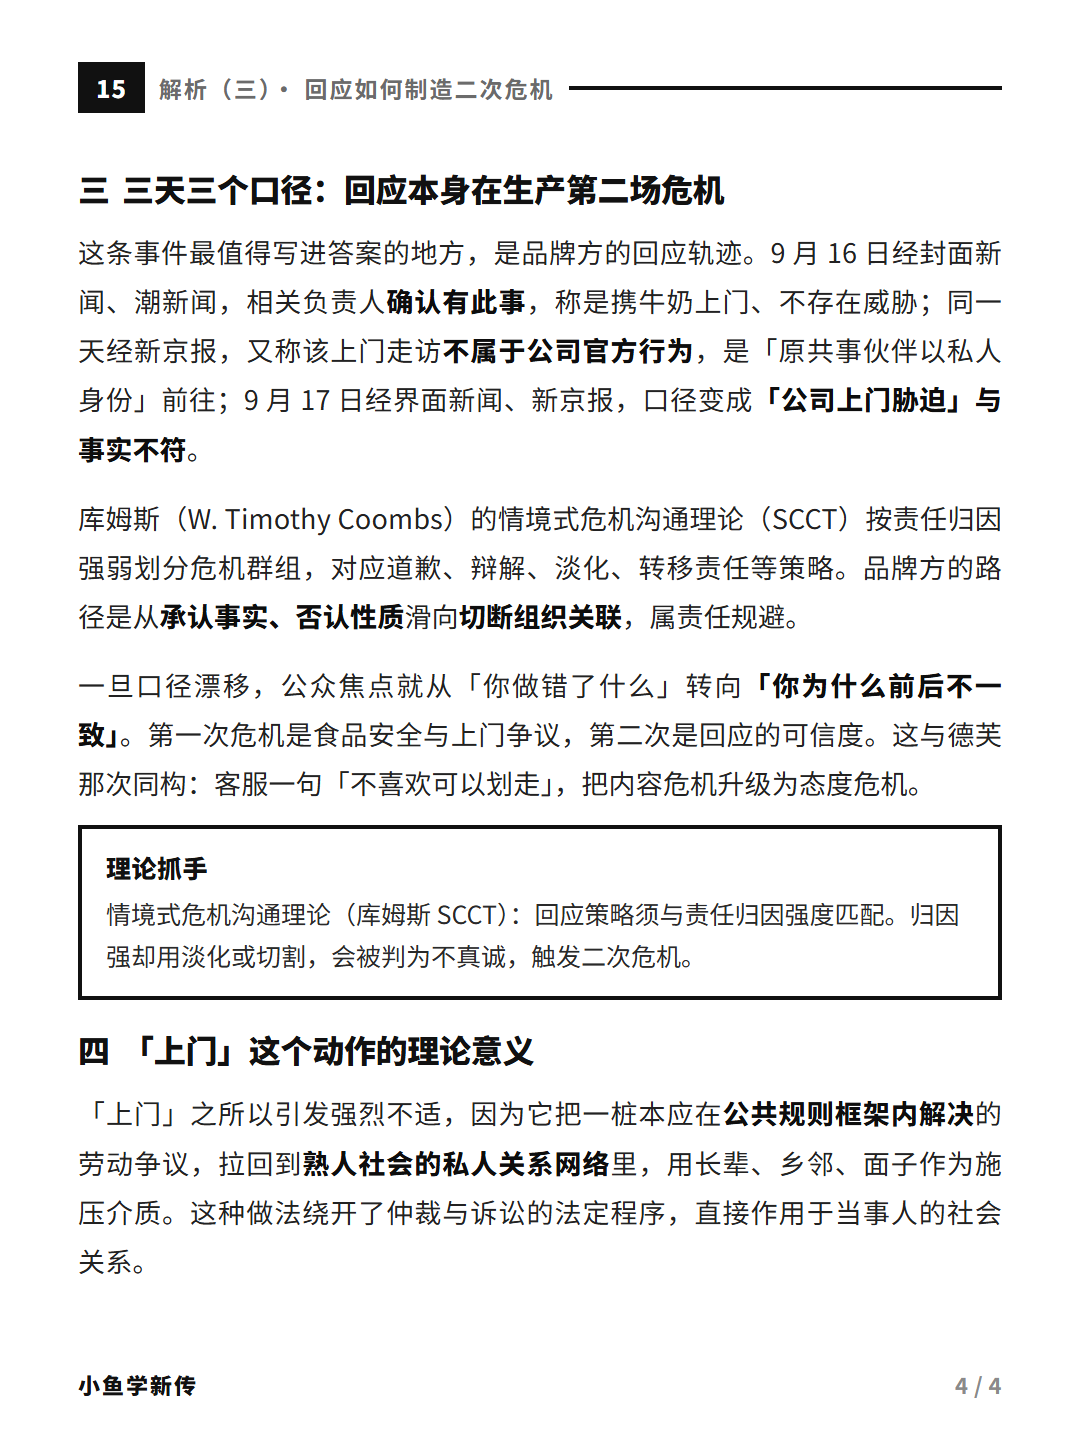
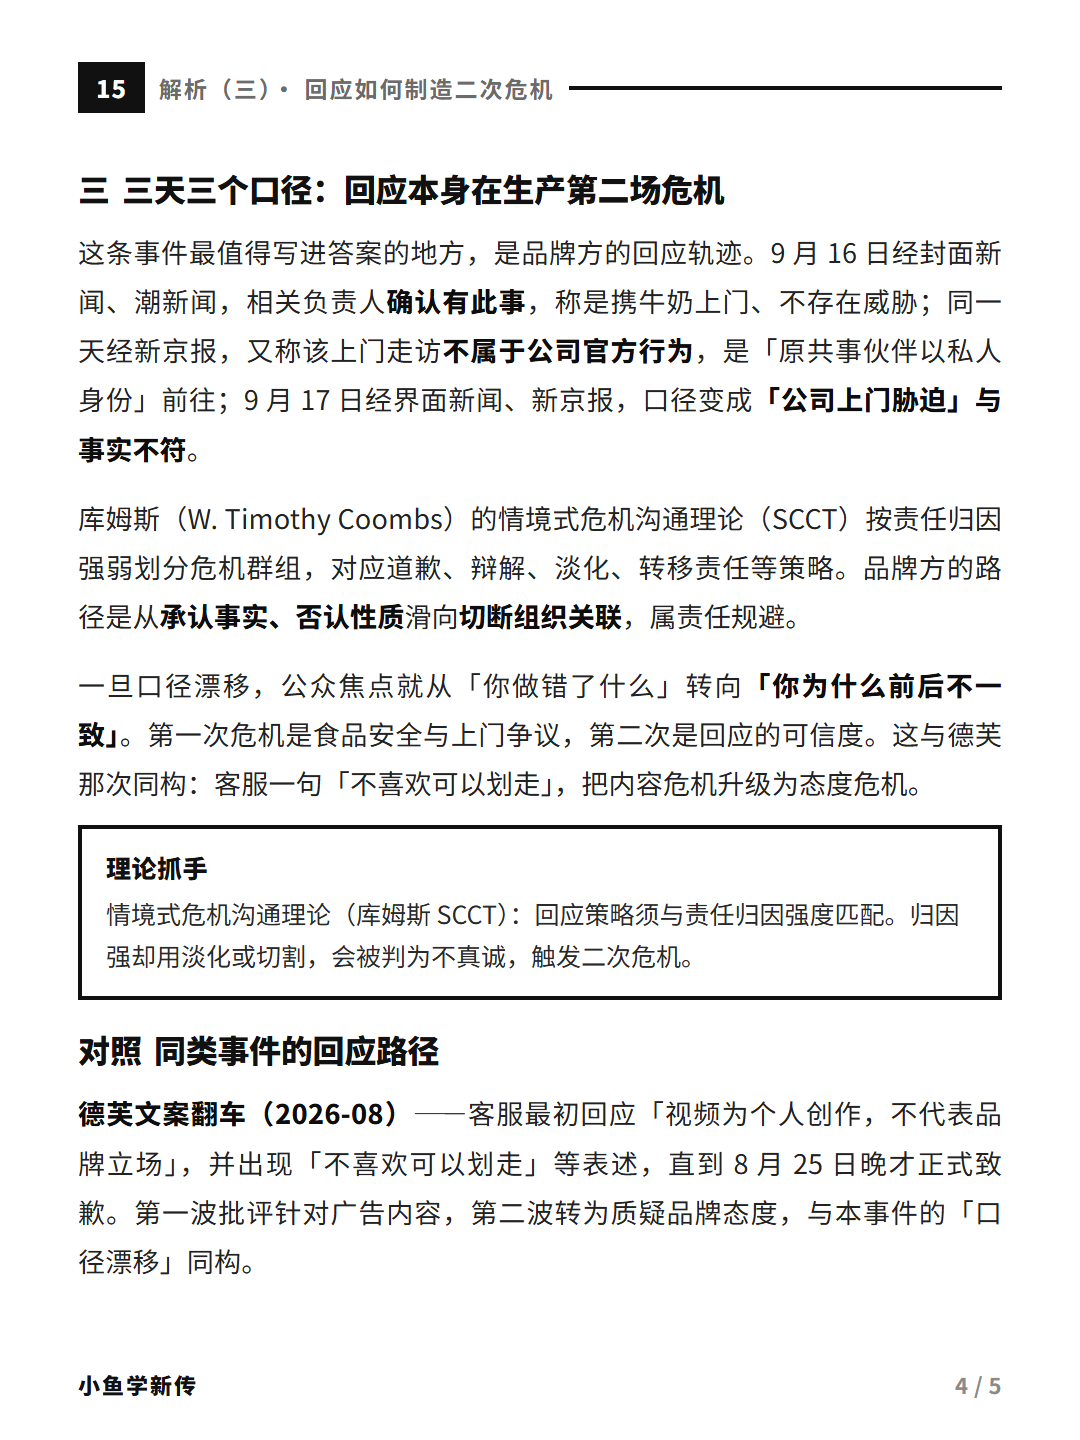
style(热点解读): 15 期图卡扩充为 5 张，补全结尾与参考资料
用户指出 4 张版结尾不完整（视角四被截断、考点金句与参考资料缺失）。

- p4 仅保留视角三（危机回应的口径漂移），新增「同类事件的回应路径」
  对照小节（德芙文案翻车，结构与本期同构）
- 新增 p5：视角四（「上门」动作的理论意义，补足第二三段论证）
  + 三条考点金句 + 参考资料
- 参考资料按用户要求置于结尾，17px 小字号灰色，小于正文字号
- 全部页码由 N/4 改为 N/5，署名统一「小鱼学新传」
- 笔记 cards 字段 4→5，配图说明与专题目录表同步更新

Changed region(s): [[0.0611, 0.7188, 0.9472, 0.9062]]

diff --git a/kb/新传热点事件解读/15-一点点事件.md b/kb/新传热点事件解读/15-一点点事件.md
@@ -25,14 +25,14 @@ sources:
   - 界面新闻
   - 潮新闻
   - 中华网
-cards: 4
+cards: 5
 last_updated: 2026-09-17
 ---
 
 # 15 「一点点」前员工举报茶叶异物与「上门」争议
 
 > 系列：新传热点事件解读 · 编号 15
-> 配套图卡 4 张（1080×1440，3:4），存于 `images/15-一点点事件-0{1,2,3,4}.png`
+> 配套图卡 5 张（1080×1440，3:4），存于 `images/15-一点点事件-0{1,2,3,4,5}.png`
 
 ## 一、事件回顾
 
@@ -183,15 +183,16 @@ last_updated: 2026-09-17
 
 ## 八、配图说明
 
-图卡共 4 张，均为 1080×1440（3:4）：
+图卡共 5 张，均为 1080×1440（3:4）：
 
 | 文件 | 内容 |
 |---|---|
 | `15-一点点事件-01.png` | 封面：主标题 + 事件回顾（三段）+ 四个解析视角导览 |
 | `15-一点点事件-02.png` | 视角一：框架理论 + 同类事件 |
 | `15-一点点事件-03.png` | 视角二：弱者的武器 + 小结 |
-| `15-一点点事件-04.png` | 视角三、四：危机回应 + 考点金句 |
+| `15-一点点事件-04.png` | 视角三：危机回应的口径漂移 + 同类事件对照 |
+| `15-一点点事件-05.png` | 视角四：上门动作的理论意义 + 考点金句 + 参考资料 |
 
 版式说明：本组图卡采用白底 + 超粗黑标题 + 粗下划线的黑白长图文版式，与编号 12–14 的绿色系卡片版式不同。编号 12–14 采用绿色系；本组按用户提供的参考图切换为黑白版式。
 
-署名与页码：页脚左侧署名为「小鱼学新传」，右侧为页码 `N / 4`。全套图卡不含实拍图片。
+署名与页码：页脚左侧署名为「小鱼学新传」，右侧为页码 `N / 5`。全套图卡不含实拍图片。

diff --git a/kb/wiki/log.md b/kb/wiki/log.md
@@ -85,3 +85,13 @@
 - 事件仍处进行时，市场监管部门核查结论尚未公布。
 
 说明：本期原计划结合 ima 扣叔新传知识库内容，但该连接器工具在会话中未暴露，未能取用，已向用户说明；理论框架改按 FlowUs 参考篇的语言体系与通用新传理论搭建。
+
+## [2026-09-17] update | 热点解读 15 图卡扩充为 5 张并补参考资料
+
+用户指出原 4 张版本结尾不完整（视角四内容被截断、考点金句与参考资料缺失），故扩充：
+
+- p4 拆分：仅保留视角三（危机回应的口径漂移）+ 新增「同类事件的回应路径」对照（德芙文案翻车）。
+- 新增 p5：视角四（「上门」动作的理论意义）+ 三条考点金句 + 参考资料（17px 小字号灰色）。参考资料按用户要求附在结尾，字号小于正文。
+- 全部页码由 N/4 改为 N/5，署名统一「小鱼学新传」。
+
+教训：一卷式长图文排版时，须先核对全文结构是否完整收尾（理论点数量 + 金句 + 来源），再定页数。原方案按 4 页硬塞，导致最后一页内容被截断。

diff --git a/kb/新传热点事件解读/README.md b/kb/新传热点事件解读/README.md
@@ -23,6 +23,6 @@
 | 12 | [现实版「葫芦娃爷爷」爆火与剪葫芦](12-葫芦娃爷爷事件.md) | 2026-09-05 | 集体记忆 / 拟剧理论 / 情感公地悲剧 / 媒介情境 / 反向把关 | ×3 |
 | 13 | [火车「零食占座」事件：一个空座的三次反转](13-火车零食占座事件.md) | 2026-08-16 | 反转新闻 / 框架竞争 / 新可见性 / 半公共产品 / 失范 | ×3 |
 | 14 | [罗永浩一句「难吃」与野人先生的冷处理](14-野人先生事件.md) | 2026-09-12 | 意见领袖 / 情境式危机沟通 / 符号消费 / 负面偏好 / 叙事传输 | ×3 |
-| 15 | [「一点点」前员工举报茶叶异物与「上门」争议](15-一点点事件.md) | 2026-08-13 | 框架理论 / 弱者的武器 / 情境式危机沟通 / 私人关系施压 | ×4 |
+| 15 | [「一点点」前员工举报茶叶异物与「上门」争议](15-一点点事件.md) | 2026-08-13 | 框架理论 / 弱者的武器 / 情境式危机沟通 / 私人关系施压 | ×5 |
 
 > 本仓库从编号 12 起收录。更早的编号素材未归档入库。
